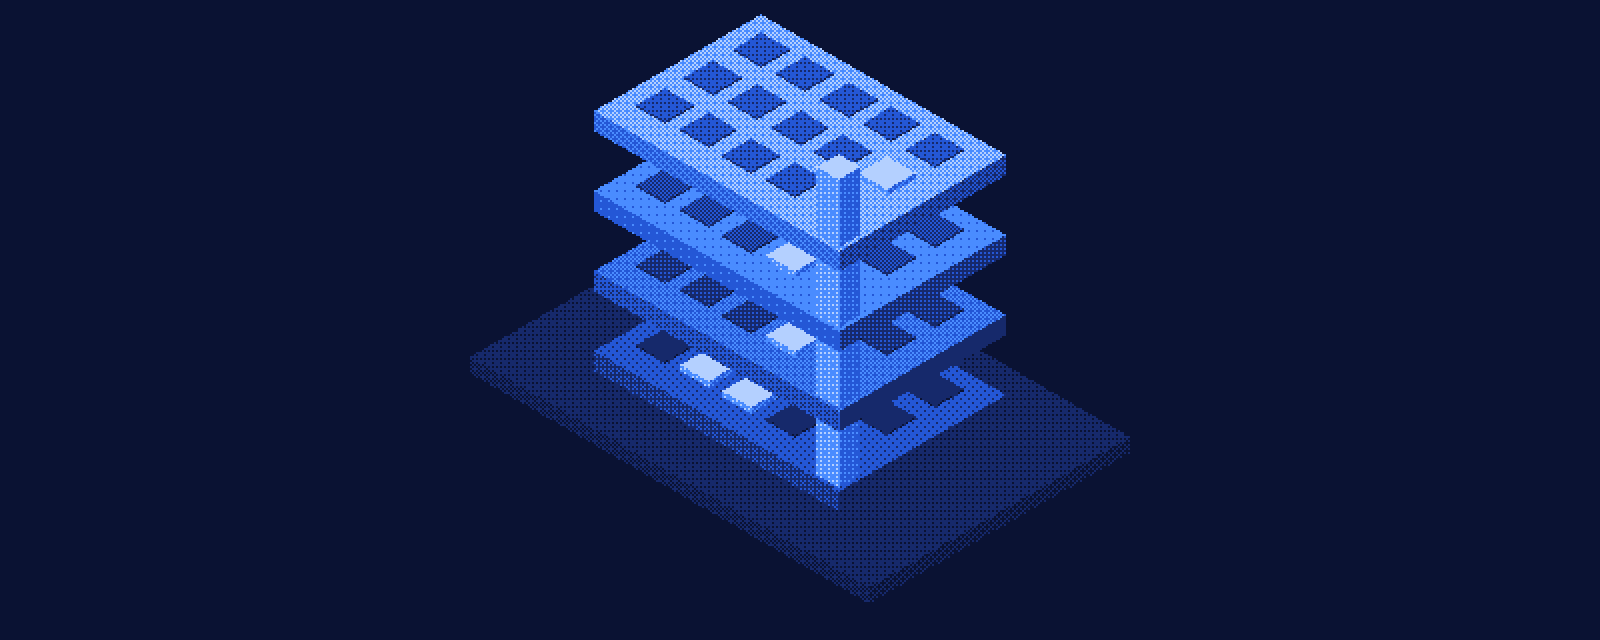
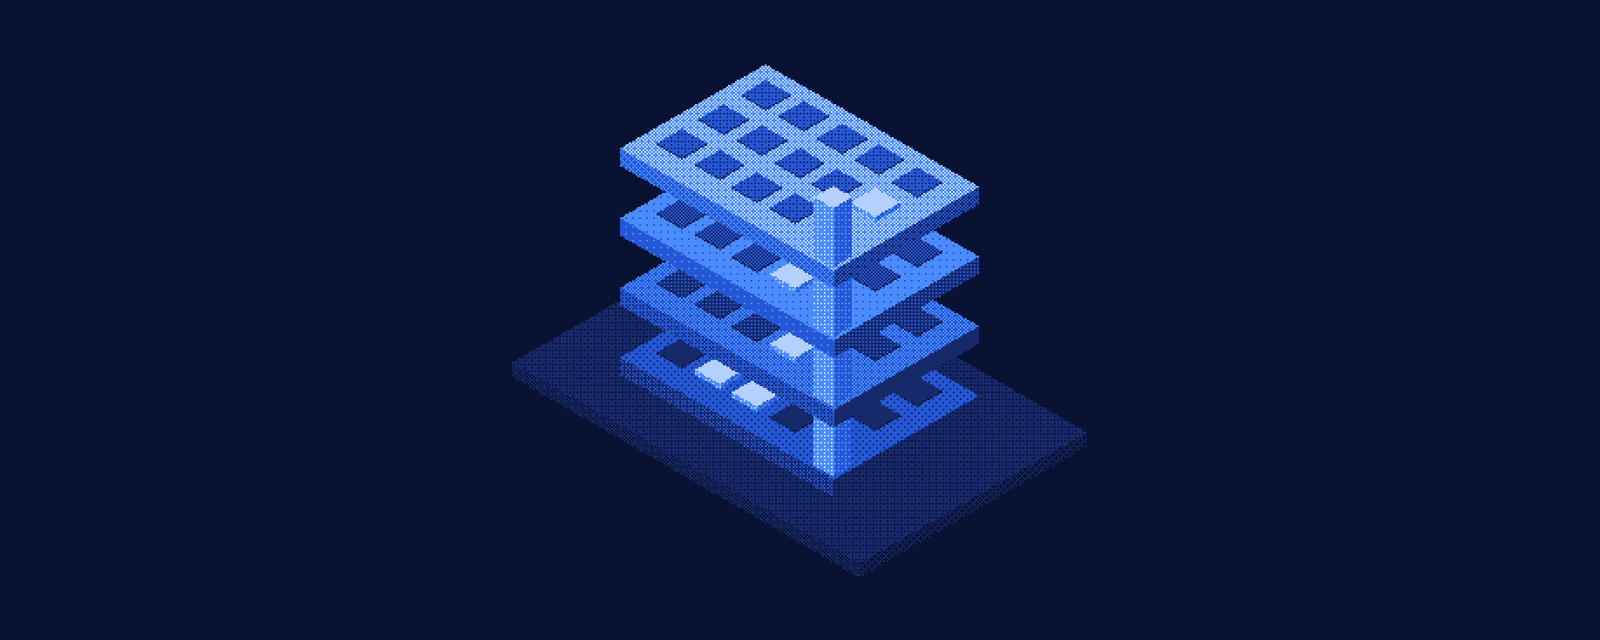
fix(blog): address review on the two memory guides
- Number the four-step list (the steps began with a stray U+0001).
- Register both FAQ sections in POST_FAQ so FAQPage JSON-LD is emitted.
- Add both posts to llms.txt.
- Make internal blog links relative, matching the other posts.
- Code-format endpoints, commands, env vars and parameters; fix the
  Python snippet indentation; drop the em dashes.
- Shrink and centre the header art so it has even margins.

Changed region(s): [[0.2812, 0.0312, 0.7188, 0.9375]]

diff --git a/src/lib/blog-schema.ts b/src/lib/blog-schema.ts
@@ -622,6 +622,75 @@ export const POST_FAQ: Readonly<Record<string, readonly FaqEntry[]>> = {
         'Keep it when the application is already based on LangGraph and the team wants small, customizable memory primitives rather than another service.',
     },
   ],
+  'how-to-give-ai-agent-persistent-memory-across-sessions': [
+    {
+      question: "Is persistent memory for an AI agent the same as RAG?",
+      answer:
+        "</svg>\n</div>\n</summary>\n<div className=\"px-7 pb-7\">\n<div className=\"h-px bg-theme-primary/10 mb-6\" />\n<p className=\"text-[16px] leading-8 text-theme-secondary/80 !m-0\">No. RAG augments a single inference from a mostly static corpus, while agent memory accumulates and revises state about a specific subject across many interactions. They share retrieval machinery and solve different problems. Statewave covers the distinction in AI agent memory vs RAG.",
+    },
+    {
+      question: "Can I just use a vector database for agent memory?",
+      answer:
+        "</svg>\n</div>\n</summary>\n<div className=\"px-7 pb-7\">\n<div className=\"h-px bg-theme-primary/10 mb-6\" />\n<p className=\"text-[16px] leading-8 text-theme-secondary/80 !m-0\">For stable reference material, yes. A plain vector store has no notion of a fact being superseded, so the January and April versions of the same fact coexist and compete on similarity. Add supersession and a time interval before you depend on it for anything that changes.",
+    },
+    {
+      question: "How many tokens should the memory bundle use?",
+      answer:
+        "</svg>\n</div>\n</summary>\n<div className=\"px-7 pb-7\">\n<div className=\"h-px bg-theme-primary/10 mb-6\" />\n<p className=\"text-[16px] leading-8 text-theme-secondary/80 !m-0\">Start in the 800 to 4,000 token range and tune by what retrieval drops. Statewave's server default is 4,000; POST /v1/context accepts max_tokens from 1 to 128,000. Its reference client sets 800 to leave room for the rest of the prompt. Set it by what you can spare, not by what the store can return.",
+    },
+    {
+      question: "Do I need a separate database for this?",
+      answer:
+        "</svg>\n</div>\n</summary>\n<div className=\"px-7 pb-7\">\n<div className=\"h-px bg-theme-primary/10 mb-6\" />\n<p className=\"text-[16px] leading-8 text-theme-secondary/80 !m-0\">Not necessarily. Statewave runs on Postgres with the pgvector extension and no separate vector store, which keeps memory under the same backup, access control and residency rules as the rest of your data. The reasoning is in self-hosted memory with Postgres and pgvector.",
+    },
+    {
+      question: "How do I delete one user's memories?",
+      answer:
+        "</svg>\n</div>\n</summary>\n<div className=\"px-7 pb-7\">\n<div className=\"h-px bg-theme-primary/10 mb-6\" />\n<p className=\"text-[16px] leading-8 text-theme-secondary/80 !m-0\">Delete by subject, and check that the purge reaps derived rows as well as the obvious ones. Events and facts are the visible two. Resolutions, entity rows, health caches and supersession records also carry the subject identifier and will survive a naive delete, since most have no foreign key cascade to ride on.",
+    },
+    {
+      question: "Should the memory write happen before or after the model replies?",
+      answer:
+        "</svg>\n</div>\n</summary>\n<div className=\"px-7 pb-7\">\n<div className=\"h-px bg-theme-primary/10 mb-6\" />\n<p className=\"text-[16px] leading-8 text-theme-secondary/80 !m-0\">After, for the turn you just finished, and before the context is at risk of being lost. Writing after the reply means you capture what the agent said, which is the half that tends to go unstored.",
+    },
+  ],
+  'how-to-stop-ai-agents-forgetting-between-sessions': [
+    {
+      question: "Does a bigger context window remove the need for agent memory?",
+      answer:
+        "</svg>\n</div>\n</summary>\n<div className=\"px-7 pb-7\">\n<div className=\"h-px bg-theme-primary/10 mb-6\" />\n<p className=\"text-[16px] leading-8 text-theme-secondary/80 !m-0\">No. A larger window holds more tokens but does not persist anything past the session, and placement inside the window changes whether the model uses a fact at all. Stanford's Lost in the Middle work found GPT-3.5-Turbo scoring below its own closed-book accuracy when the answer sat mid-context in 20- and 30-document settings.",
+    },
+    {
+      question: "Is AI agent memory the same thing as RAG?",
+      answer:
+        "</svg>\n</div>\n</summary>\n<div className=\"px-7 pb-7\">\n<div className=\"h-px bg-theme-primary/10 mb-6\" />\n<p className=\"text-[16px] leading-8 text-theme-secondary/80 !m-0\">They overlap and solve different problems. RAG augments a single inference from a mostly static corpus, while agent memory accumulates and updates state across many interactions with the same subject. Statewave covers the distinction in detail in AI agent memory vs RAG.",
+    },
+    {
+      question: "How many tokens should a memory bundle use?",
+      answer:
+        "</svg>\n</div>\n</summary>\n<div className=\"px-7 pb-7\">\n<div className=\"h-px bg-theme-primary/10 mb-6\" />\n<p className=\"text-[16px] leading-8 text-theme-secondary/80 !m-0\">Start in the 800 to 4,000 token range and tune from there. Statewave's server default is 4,000; POST /v1/context accepts optional max_tokens from 1 to 128,000. The reference client uses 800. The right number depends on how much room the rest of your prompt needs, so set it by what you can spare rather than by what the store can return.",
+    },
+    {
+      question: "What stops an agent from storing a fact that is wrong?",
+      answer:
+        "</svg>\n</div>\n</summary>\n<div className=\"px-7 pb-7\">\n<div className=\"h-px bg-theme-primary/10 mb-6\" />\n<p className=\"text-[16px] leading-8 text-theme-secondary/80 !m-0\">A confidence threshold at write time and a resolution rule at compile time. Compilers that cannot determine what a statement asserts should emit no structured claim rather than guess, and contradicting claims about the same key should supersede by recency instead of coexisting.",
+    },
+    {
+      question: "Can multiple agents share one memory store without overwriting each other?",
+      answer:
+        "</svg>\n</div>\n</summary>\n<div className=\"px-7 pb-7\">\n<div className=\"h-px bg-theme-primary/10 mb-6\" />\n<p className=\"text-[16px] leading-8 text-theme-secondary/80 !m-0\">Yes, if conflicts resolve on structured claim keys rather than text similarity, and if cardinality is set server-side rather than taken from model output. Single-valued keys supersede, multi-valued keys accumulate, and the superseded memory stays on the timeline with the interval it was true for.",
+    },
+    {
+      question: "How do you delete one user's memories under GDPR?",
+      answer:
+        "</svg>\n</div>\n</summary>\n<div className=\"px-7 pb-7\">\n<div className=\"h-px bg-theme-primary/10 mb-6\" />\n<p className=\"text-[16px] leading-8 text-theme-secondary/80 !m-0\">Delete by subject, and make sure the purge reaps derived rows as well as the obvious ones. Episodes and memories are the visible two; resolutions, health caches, entity rows and supersession records also carry the subject ID and will outlive a naive delete, since most of them have no foreign key cascade to ride on.",
+    },
+    {
+      question: "Do you need a vector database for agent memory?",
+      answer:
+        "</svg>\n</div>\n</summary>\n<div className=\"px-7 pb-7\">\n<div className=\"h-px bg-theme-primary/10 mb-6\" />\n<p className=\"text-[16px] leading-8 text-theme-secondary/80 !m-0\">Not necessarily. Statewave runs on Postgres with the pgvector extension and no separate vector store, which keeps operational surface down and lets memory rows live under the same backup, access control and residency rules as the rest of your data.",
+    },
+  ],
 } as const
 
 export const HOWTO_SLUGS: readonly string[] = ['persistent-memory-for-ai-support-agents']
